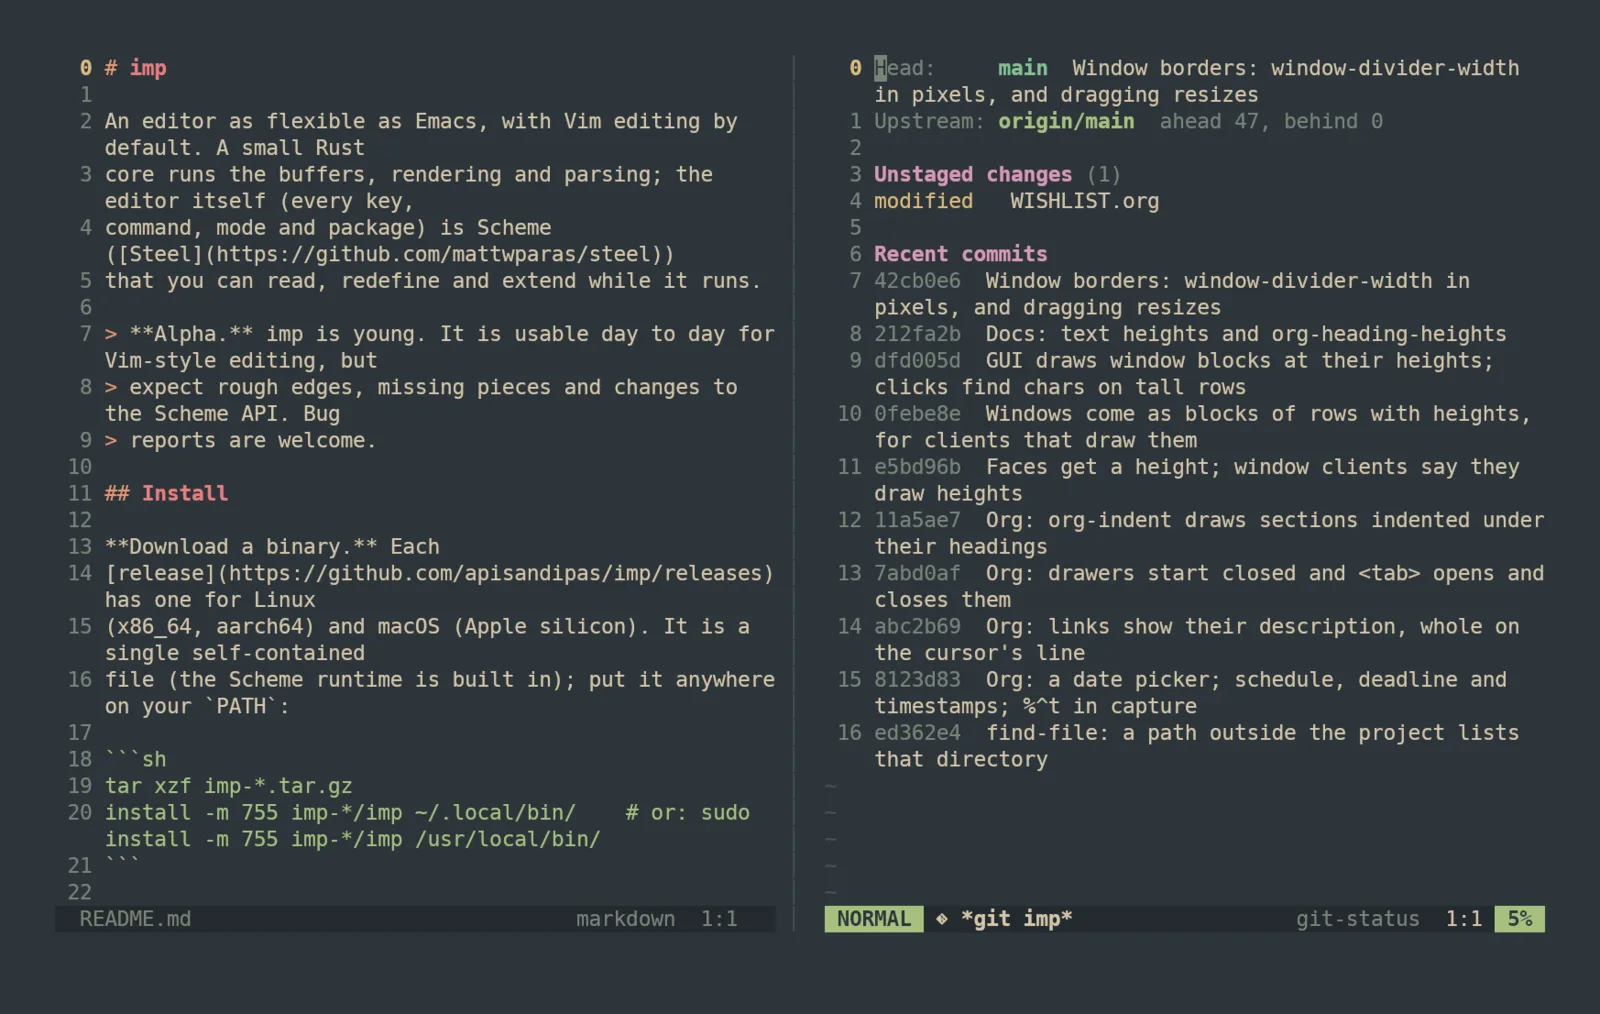
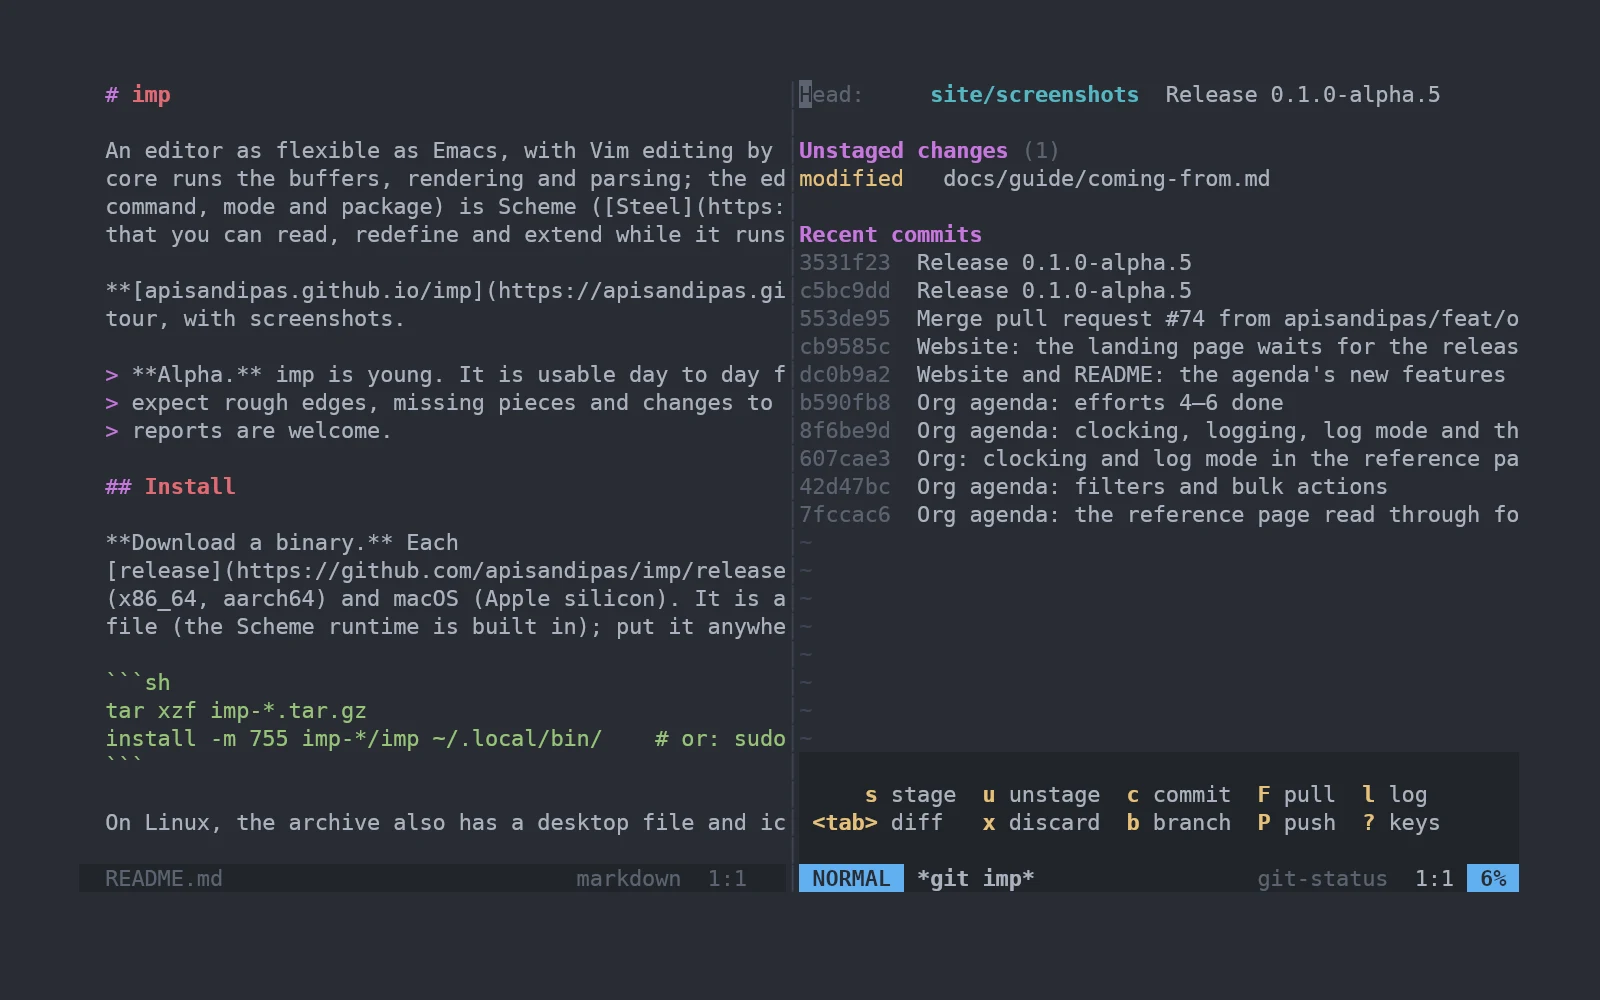
Website: retake the tour's screenshots; the Org tab shows the agenda
Taken from 0.1.0-alpha.5 with imp --screenshot under a temporary
config and state, at 110x30 and scale 1.45, padded to 1600x1000.

Closes #68

diff --git a/site/index.html b/site/index.html
@@ -122,42 +122,42 @@
               <h3>Git, Magit-style</h3>
               <p><kbd>SPC g g</kbd> opens status down the right: stage, unstage, commit and browse history from the keyboard, beside the code you're working on. <kbd>q</kbd> puts it away.</p>
             </div>
-            <img src="img/git.webp" width="1600" height="1014" alt="imp with a README on the left and a git status window on the right listing unstaged changes and recent commits" loading="lazy">
+            <img src="img/git.webp" width="1600" height="1000" alt="imp with a README on the left and a git status window on the right listing an unstaged change, recent commits and the keys to act on them" loading="lazy">
           </div>
           <div class="panel" role="tabpanel" id="panel-org" aria-labelledby="tab-org" hidden>
             <div class="panel-text">
-              <h3>Org mode, for real</h3>
-              <p>Outlines, TODO states, schedules and deadlines with a date picker, an agenda, capture templates, refiling, and tables that align themselves. Headings get larger type in the window, and links show only their text until the cursor reaches them.</p>
+              <h3>Org mode and its agenda</h3>
+              <p>Outlines, TODO states, schedules and deadlines with a date picker, capture templates, refiling, clocking, and tables that align themselves. The agenda has Org's views, from a day to a year, with a time grid, habits, tag matches, search, filters and bulk actions, in Doom's keys.</p>
             </div>
-            <img src="img/org.webp" width="1475" height="932" alt="An Org file in imp: large headings, TODO and DONE states, scheduled and deadline dates, and an aligned table" loading="lazy">
+            <img src="img/org.webp" width="1600" height="1000" alt="The Org agenda in imp: overdue tasks, today with a time grid and a now line, a habit's graph, deadlines coming up, and tags and categories in aligned columns" loading="lazy">
           </div>
           <div class="panel" role="tabpanel" id="panel-mx" aria-labelledby="tab-mx" hidden>
             <div class="panel-text">
               <h3>Every command, by name</h3>
               <p><kbd>M-x</kbd> fuzzy-matches every command and lists its key binding and the first line of its docs. The ones you write in <code>init.scm</code> show up the same way.</p>
             </div>
-            <img src="img/mx.webp" width="1600" height="983" alt="The M-x command palette in imp filtered to org, listing org-agenda and org-capture with their keys and descriptions" loading="lazy">
+            <img src="img/mx.webp" width="1600" height="1000" alt="The M-x command palette in imp filtered to org, listing org-agenda and org-capture with their keys and descriptions" loading="lazy">
           </div>
           <div class="panel" role="tabpanel" id="panel-leader" aria-labelledby="tab-leader" hidden>
             <div class="panel-text">
               <h3>A leader key that teaches itself</h3>
               <p>Press <kbd>SPC</kbd> and pause: imp lists what each next key does. You'll stop needing the menu in about a week, and <code>define-leader!</code> adds your own entries.</p>
             </div>
-            <img src="img/leader.webp" width="1600" height="983" alt="The space leader menu in imp, listing groups like buffer, code, debug, file, git, help, org, project and search" loading="lazy">
+            <img src="img/leader.webp" width="1600" height="1000" alt="The space leader menu in imp, listing groups like buffer, code, debug, file, git, help, org, project and search" loading="lazy">
           </div>
           <div class="panel" role="tabpanel" id="panel-dired" aria-labelledby="tab-dired" hidden>
             <div class="panel-text">
               <h3>A file browser you edit like text</h3>
               <p><code>:Ex</code> lists a directory with permissions, sizes and times. Rename by editing names, delete by deleting lines, and <kbd>(</kbd> hides the details.</p>
             </div>
-            <img src="img/dired.webp" width="1600" height="983" alt="imp's file browser listing Scheme files with their permissions, sizes and modification times" loading="lazy">
+            <img src="img/dired.webp" width="1600" height="1000" alt="imp's file browser listing Scheme files with their permissions, sizes and modification times" loading="lazy">
           </div>
           <div class="panel" role="tabpanel" id="panel-split" aria-labelledby="tab-split" hidden>
             <div class="panel-text">
               <h3>Splits, highlighting, language servers</h3>
               <p>Tree-sitter highlighting and text objects. Language servers give diagnostics, go-to-definition, references, rename, code actions, formatting and completion. Debugging works over DAP. Drag the divider to resize.</p>
             </div>
-            <img src="img/split.webp" width="1600" height="1014" alt="Two side-by-side windows in imp: Scheme source on the left and Rust source on the right, both syntax highlighted" loading="lazy">
+            <img src="img/split.webp" width="1600" height="1000" alt="Two side-by-side windows in imp: Rust source on the left and Scheme source on the right, both syntax highlighted, with fold markers" loading="lazy">
           </div>
         </div>
       </div>
